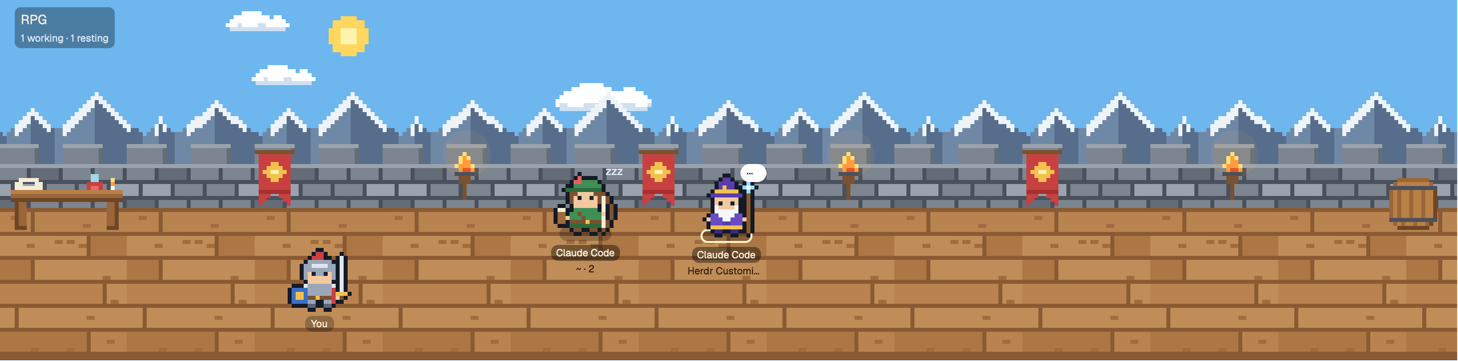
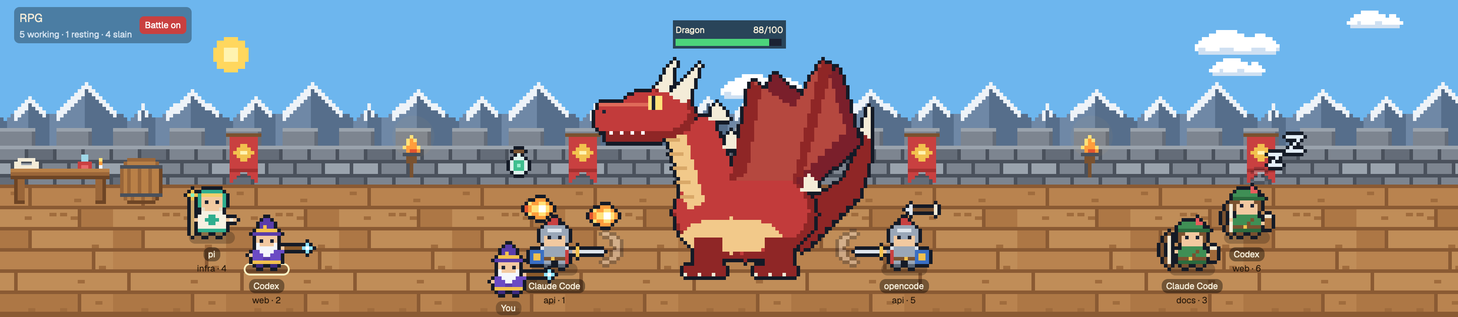
docs(rpg): show battle mode in the preview and add a gif
The preview still showed the scene before battle mode existed, and a
still cannot show the attack animations. Both were recorded with a
staged party so nothing from a real workspace appears in them.

diff --git a/rpg/RECIPE.md b/rpg/RECIPE.md
@@ -4,6 +4,8 @@ A castle rampart across the top of the window, in pixel art, staffed by a small 
 
 ![RPG](preview.png)
 
+![Battle mode in motion](battle.gif)
+
 ## What you see
 
 - **Sidebar (left, 268px):** Herdr's own sidebar, unchanged: brand bar, Spaces, Agents, footer.
@@ -25,7 +27,7 @@ A castle rampart across the top of the window, in pixel art, staffed by a small 
 - **Click yourself:** a smaller card with your portrait, class name and the same wrench.
 - **Drag an agent:** after 4px of movement it becomes a dangling sprite that leans against the direction of travel. Releasing drops it; released over the wall, it falls to the floor.
 - **Battle mode:** a button in the sign toggles it (red "Battle on" / grey "Battle off", saved; on by default). When on:
-  - **Monster:** one stands in the middle of the floor, feet at floor y 108: a slime (136×104), an ogre (200×200) or a dragon (328×264), each with 100 HP and a name plate above it (name, `hp/100`, a 120px bar that is green above 50, yellow above 20, red below, its width eased over 400ms). Each has a second frame it eases to and from with a native opacity loop: the slime squashes (1.7s), the dragon's tail swings a few pixels lower (2.4s). The dragon and the ogre breathe: the upper body (`monster-<kind>-top.png`: head, shoulders and arms, or head, neck and wings) is a second picture that rises 3px over the still one with a native `top` loop, so the feet stay planted. The ogre every 14 seconds shows its roar frame for 1.1s. All blink every 5.2s (an eyelid overlay for 170ms), and hop 4px when a blow lands.
+  - **Monster:** one stands in the middle of the floor, feet at floor y 108: a slime (136×104), an ogre (200×200) or a dragon (328×264), each with 100 HP and a name plate above it (name, `hp/100`, a 120px bar that is green above 50, yellow above 20, red below, its width eased over 400ms). Each is a still picture with pieces that move over or behind it on native `top` loops, so nothing shows through: the slime's dome (`-top`) sinks 8px into its foot (`-base`) and rises (1.7s); the dragon's tail (`-tail`) sways 5px behind its body (`-body`, 2.6s); the ogre and the dragon breathe, their upper body (`-top`: head, shoulders and arms, or head, neck and wings) rising 3px while the feet stay planted. Every 14 seconds the ogre shows its roar frame (`-2`) for 1.1s. All blink every 5.2s (an eyelid overlay for 170ms), and hop 4px when a blow lands.
   - **Formation:** every agent glides (700ms) from its own spot to a place computed from its class: warriors 34px outside the monster's edge, everyone else 360px out (five characters; less on a narrow scene), alternating left and right, each next one on a side 62px further out and staggered between floor y 96 and 60. Turning battle off glides them back. Agents cannot be dragged while in formation.
   - **Attacks:** every 3 seconds each working agent deals 1 HP and plays its attack in five phases (wind-up at 0ms, strike or flight from 220ms and 470ms, impact at 720ms, rest at 1150ms). In formation every sprite is a 96×72 fighting pose facing the monster (`<class>-f|a1|a2-l|r.png`): stance, wind-up on phase 1, strike on phases 2 and 3. Warrior: raises its own sword, swings it level at full reach, and a white slash pops in at the tip and fades. Archer: draws with an arrow nocked, looses; the arrow flies to the monster in 500ms, then a spark. Wizard: raises its staff, thrusts it out; a fireball flies, then a burst. Healer (drawn mirrored so the free hand faces the monster): holds a potion up, flings its arm out; the potion is lobbed in an arc (up 44px for the first half of the flight, down for the second), then a green splash. Projectiles are hidden at the hand, shown only while flying, and slip back unseen. A working agent in formation shows no swords overhead and does not bounce.
   - **You:** when at least one agent is working you attack on the same beat for 1 HP, with the same poses and effects, facing the monster from wherever you stand. As a warrior you only attack (and only count) within 80px of the monster's edge. While walking you use the walk frames.

diff --git a/README.md b/README.md
@@ -8,7 +8,7 @@ Agent workspace visualizers for the [Herdr](https://herdr.dev) desktop app: layo
 
 ## RPG
 
-![RPG](rpg/preview.png)
+![RPG battle mode: the party attacking a dragon](rpg/battle.gif)
 
 A pixel-art castle rampart across the top of the window, under a sky with drifting clouds and a 20-minute day and night. You and every agent are pixel-art adventurers: a wizard, healer, warrior or archer, picked at random on arrival.
 
@@ -22,7 +22,7 @@ A pixel-art castle rampart across the top of the window, under a sky with drifti
 - **Click the floor** to walk there.
 - **Click an agent** for a card with its portrait, status, location and a "Go to terminal" button. The wrench on the portrait lets you pick a different class; click yourself to change your own.
 - **Drag an agent** to carry it around; release to drop it. Positions and classes are remembered.
-- **Battle mode** (the button by the sign, on by default): a random monster (slime, ogre or dragon) stands in the middle with 100 HP and the party forms up around it, warriors up close and the rest at range. Every 3 seconds each working agent attacks for 1 HP with its own animation: the warrior swings its sword, the archer draws and shoots, the wizard thrusts its staff and throws a fireball, and the healer lobs a potion that splashes. You join in whenever the party is attacking; as a warrior you have to stand next to the monster to reach it. The monsters are alive too: they blink, the slime wobbles, the dragon breathes and sways its tail, and the ogre roars now and then. When the monster falls, another one turns up and the sign counts the kill. Turning battle mode off sends everyone back to their own spots.
+- **Battle mode** (the button by the sign, on by default): a random monster (slime, ogre or dragon) stands in the middle with 100 HP and the party forms up around it, warriors up close and the rest at range. Every 3 seconds each working agent attacks for 1 HP with its own animation: the warrior swings its sword, the archer draws and shoots, the wizard thrusts its staff and throws a fireball, and the healer lobs a potion that splashes. You join in whenever the party is attacking; as a warrior you have to stand next to the monster to reach it. The monsters are alive too: they blink, the slime squashes and rises, the dragon breathes and sways its tail, and the ogre roars now and then. When the monster falls, another one turns up and the sign counts the kill. Turning battle mode off sends everyone back to their own spots.
 
 Full description of the design and how it is built: [`rpg/RECIPE.md`](rpg/RECIPE.md).
 

diff --git a/AGENTS.md b/AGENTS.md
@@ -20,7 +20,8 @@ Agent workspace visualizers for the [Herdr](https://herdr.dev) desktop app. Each
 │   ├── mods/rpg/             # main.js, mod.json, art/*.png
 │   ├── themes/               # rpg.json
 │   ├── RECIPE.md             # Brief another agent could rebuild it from
-│   └── preview.png
+│   ├── preview.png           # Still, for Herdr's gallery
+│   └── battle.gif            # Battle mode in motion, for the README
 ├── tools/                    # rpg-sprites.py: generates every PNG in art/
 ├── install.sh                # Copies a visualizer into ~/.config/herdr-app
 ├── .github/                  # CODEOWNERS, Renovate config, workflows (CI, release, Renovate)
@@ -37,7 +38,7 @@ Agent workspace visualizers for the [Herdr](https://herdr.dev) desktop app. Each
 - The reference for layouts, mods and the `herdr` module is `~/.config/herdr-app/AGENTS.md` and the `.d.ts` files beside it, rewritten by the app to match the installed version. Read them before changing a mod.
 - Edit files in the repo, then run `./install.sh rpg` to copy them into Herdr. After every mod change run `herdr-app check <mod folder>`, then `herdr-app status` with the layout shown. `check` renders with no agents, so test agent-dependent code with a hard-coded fake agent.
 - `herdr-app shot <file.png>` captures the window for visual checks.
-- Keep each visualizer's `RECIPE.md` and `preview.png` in step with its files.
+- Keep each visualizer's `RECIPE.md`, `preview.png` and `battle.gif` in step with its files.
 - Art is original. Do not copy characters or artwork from existing games or products.
 - `gpui-kit.d.ts` and `jsconfig.json` inside mod folders are written by Herdr and git-ignored.
 
